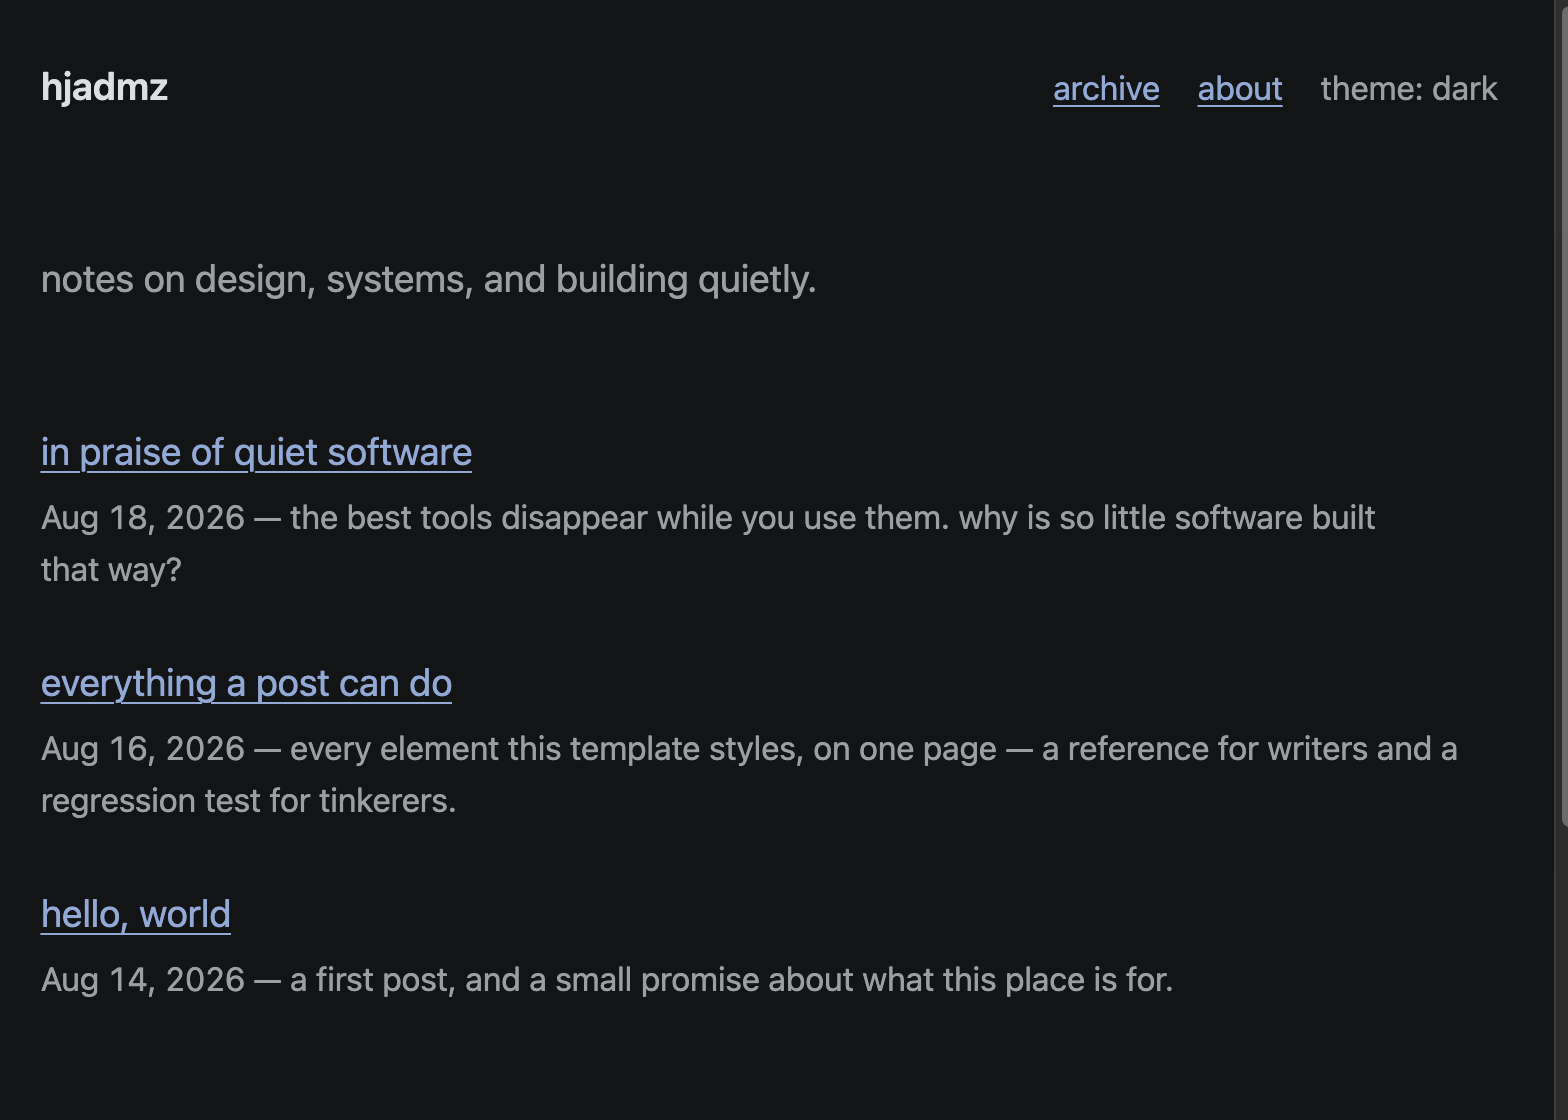
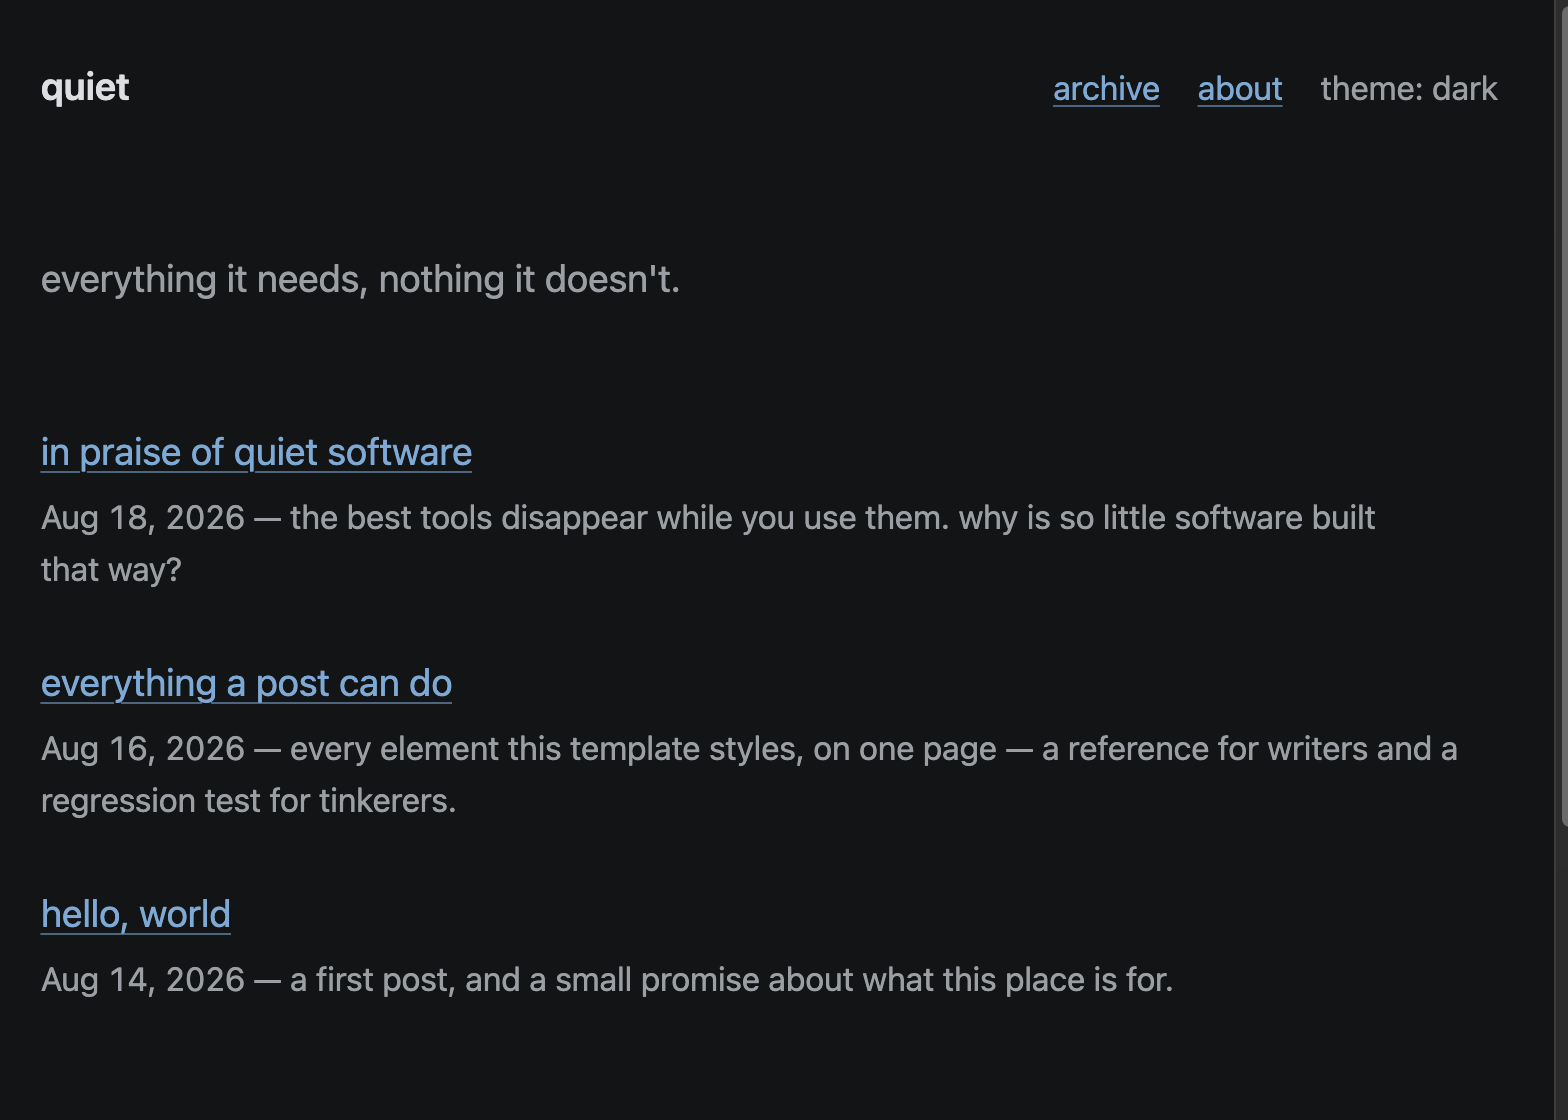
split: this repo is now the quiet template proper
Generic config (placeholder identity, default accent, UTC), neutral
'q' favicon set and og image, generic about page, credit links point
here, screenshots regenerated with the template identity. The live
demo and first deployment is hjadmz.github.io.

Changed region(s): [[0.0312, 0.2188, 0.5312, 0.2812], [0.0312, 0.0625, 0.125, 0.0938]]

diff --git a/_includes/footer.html b/_includes/footer.html
@@ -8,5 +8,5 @@
     {%- endif %}
     <a href="{{ '/feed.xml' | relative_url }}">rss</a>
   </p>
-  <p class="footer-meta">© {{ 'now' | date: '%Y' }} {{ site.author.name | escape }}{% if site.show_credit %} · built with <a href="https://github.com/hjadmz/hjadmz.github.io">quiet</a>{% endif %}</p>
+  <p class="footer-meta">© {{ 'now' | date: '%Y' }} {{ site.author.name | escape }}{% if site.show_credit %} · built with <a href="https://github.com/hjadmz/quiet">quiet</a>{% endif %}</p>
 </footer>

diff --git a/about.md b/about.md
@@ -5,11 +5,8 @@ permalink: /about/
 description: who writes this, and why.
 ---
 
-i'm henry — a design engineer in training. i care about software that
-works quietly: fewer features, better ones, nothing performing for
-attention.
+this is the about page. replace it with who you are — a few honest
+sentences beat a résumé.
 
-this blog is where i think out loud about design, systems, and
-building things carefully.
-
-elsewhere: [github](https://github.com/hjadmz).
+this blog is built with [quiet](https://github.com/hjadmz/quiet),
+a template with everything it needs and nothing it doesn't.

diff --git a/_posts/2026-08-14-hello-world.md b/_posts/2026-08-14-hello-world.md
@@ -3,7 +3,7 @@ title: hello, world
 description: a first post, and a small promise about what this place is for.
 ---
 
-This is a blog built with [quiet](https://github.com/hjadmz/hjadmz.github.io) —
+This is a blog built with [quiet](https://github.com/hjadmz/quiet) —
 a template with everything it needs and nothing it doesn't.
 
 There are no trackers here, no cookie banner, no comment counters asking
